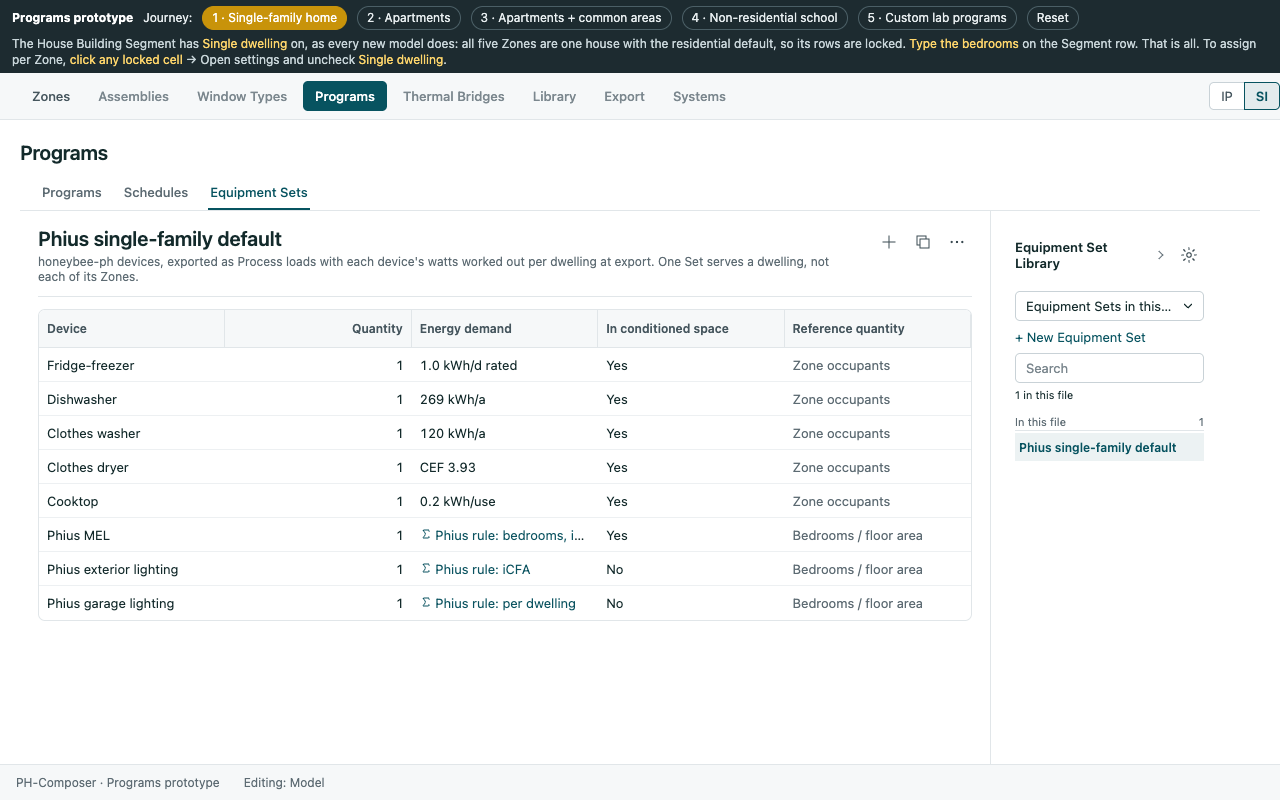
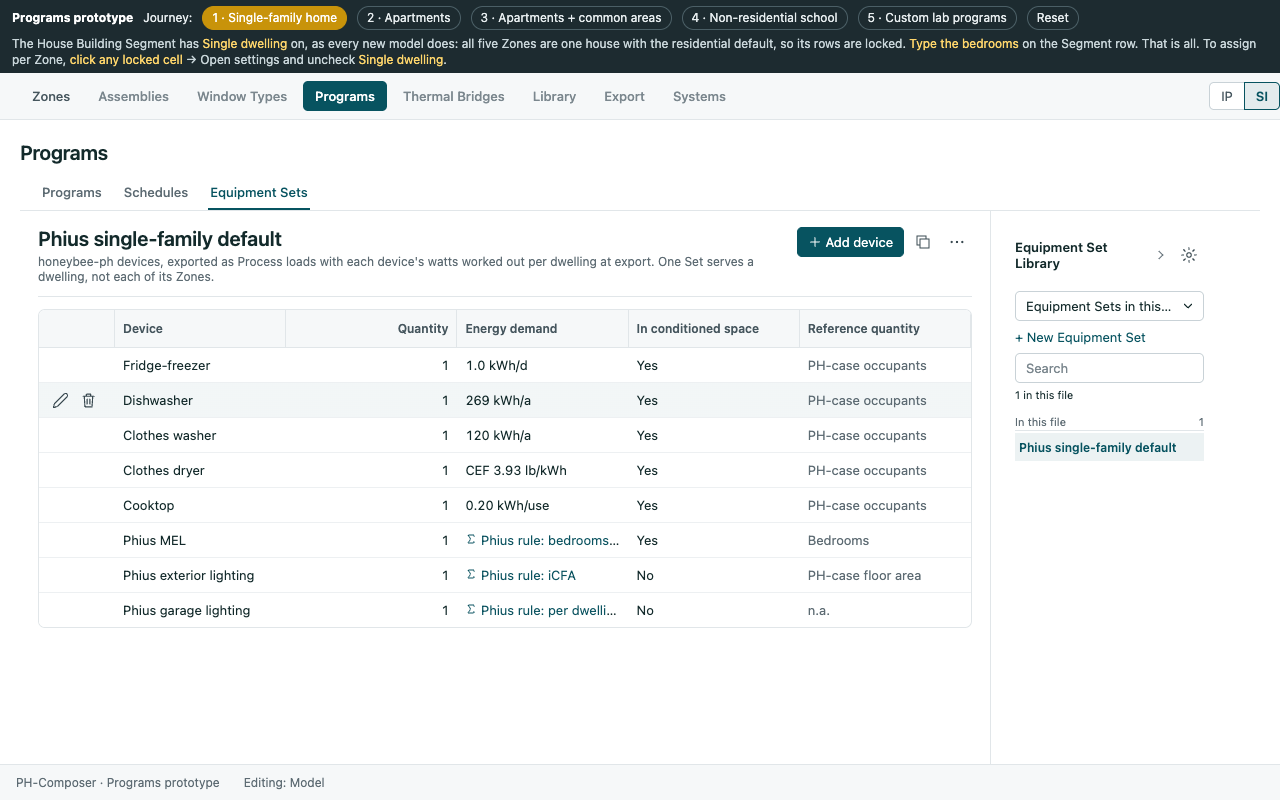
Programs tab: add, edit and delete Equipment Set devices one at a time
Q4a-36: Edit and Delete in each device row's Actions cell, Add device as
the Set's primary action, and one form dialog laid out by the device's
honeybee-ph PhEquipment type (14 types, fields as honeybee_grasshopper_ph
create_elec_equip.py exposes them). The type is chosen on Add and fixed on
Edit; Delete confirms. Recorded in the PRD, contracts, P4a-07 and P4a-11.

diff --git a/planning/features/phase-04a-program/mockups/programs.html b/planning/features/phase-04a-program/mockups/programs.html
@@ -50,6 +50,11 @@
   .pgm-col-head { padding:6px 10px 4px; font-size:11px; font-weight:600; color:var(--muted); text-transform:uppercase; letter-spacing:.04em; }
   .pgm-col .pgm-sched { padding:6px 10px; }
   .pgm-src { padding:6px 10px; font-size:11px; color:var(--muted); }
+  .zp-devices tbody tr { cursor:pointer; }
+  .zp-devices td.col-actions { white-space:nowrap; overflow:visible; text-overflow:clip; }
+  .zp-devdlg .zp-grid { grid-template-columns:230px 1fr; }
+  .zp-devdlg-error { min-height:1em; margin:6px 0 0; }
+  .pgm-tools button.primary { display:inline-flex; align-items:center; gap:4px; white-space:nowrap; }
   .vent-form { display:grid; grid-template-columns:120px 140px 140px; gap:6px 12px; align-items:center; margin-top:14px; font-size:12px; }
   .vent-form > b { font-size:11px; color:var(--muted); text-transform:uppercase; letter-spacing:.04em; }
   .vent-form input { width:100%; min-height:28px; padding:2px 8px; text-align:right; }
@@ -265,6 +270,51 @@
     return x;
   }
 
+  // ---------------------------------------------------------------- Equipment Set devices
+  // One entry per honeybee-ph PhEquipment type PHX reads (honeybee_grasshopper_ph create_elec_equip.py). `rq` lists
+  // the WUFI/METr reference quantity codes valid for the type; `demand` its energy demand; `extra` its own fields.
+  var REFQ = { 1: "PH-case occupants", 2: "Zone occupants", 3: "Bedrooms", 4: "PH-case units", 5: "User defined", 6: "PH-case floor area", 7: "Zone floor area", 8: "n.a." };
+  var WATER = ["DHW connection", "Cold water connection"];
+  var FRIDGE = { rq: [1, 2, 5], norms: ["Per day", "Per year"], demand: { label: "Energy demand (rated)", unit: "kWh", def: 1.0 }, perUse: { label: "Energy per day", unit: "kWh/d", def: 1.0 } };
+  var DEVICE_TYPES = [
+    { id: "dishwasher", label: "Dishwasher", rq: [1, 2, 5], norms: ["Per year"], demand: { label: "Annual energy use rating", unit: "kWh/a", def: 269 }, perUse: { label: "Energy per use", unit: "kWh/use", def: 1.1 },
+      extra: [{ k: "capacity_type", label: "Capacity, preselection", options: ["Standard"] }, { k: "capacity", label: "Capacity", unit: "place settings", def: 12 }, { k: "water", label: "Water connection", options: WATER }] },
+    { id: "washer", label: "Clothes washer", rq: [1, 2, 5], norms: ["Per year"], demand: { label: "Annual energy use", unit: "kWh/a", def: 120 }, perUse: { label: "Energy per use", unit: "kWh/use", def: 1.1 },
+      extra: [{ k: "capacity", label: "Capacity", unit: "m³", def: 0.1274 }, { k: "mef", label: "MEF, modified energy factor", unit: "", def: 2.7 }, { k: "util", label: "Utilization factor", unit: "", def: 1.0 }, { k: "water", label: "Water connection", options: WATER }] },
+    { id: "dryer", label: "Clothes dryer", rq: [1, 2, 5], norms: ["CEF"], demand: { label: "CEF, combined energy factor", unit: "lb/kWh", def: 3.93 }, perUse: { label: "Energy per use", unit: "kWh/use", def: 3.5 },
+      extra: [{ k: "dryer_type", label: "Dryer type", options: ["Clothes line", "Drying closet (cold)", "Drying closet (cold) in extract air", "Condensation dryer", "Electric exhaust air dryer", "Gas exhaust air dryer", "Heat pump dryer"], def: "Condensation dryer" },
+        { k: "gas", label: "Gas consumption", unit: "kWh", def: 0, when: "Gas exhaust air dryer" }, { k: "gas_cef", label: "CEF, gas", unit: "", def: 2.67, when: "Gas exhaust air dryer" },
+        { k: "fuf_type", label: "Field utilization factor, preselection", options: ["Timer controls", "Moisture sensing"] }, { k: "fuf", label: "Field utilization factor", unit: "", def: 1.18 }] },
+    { id: "fridge", label: "Refrigerator", rq: FRIDGE.rq, norms: FRIDGE.norms, demand: FRIDGE.demand, perUse: FRIDGE.perUse },
+    { id: "freezer", label: "Freezer", rq: FRIDGE.rq, norms: FRIDGE.norms, demand: FRIDGE.demand, perUse: FRIDGE.perUse },
+    { id: "fridge_freezer", label: "Fridge-freezer", rq: FRIDGE.rq, norms: FRIDGE.norms, demand: FRIDGE.demand, perUse: FRIDGE.perUse },
+    { id: "cooktop", label: "Cooktop", rq: [1, 2, 5], norms: ["Per use"], demand: { label: "Energy demand (rated)", unit: "kWh/use", def: 0.2 }, perUse: { label: "Energy per use", unit: "kWh/use", def: 0.25 },
+      extra: [{ k: "fuel", label: "Cooktop type", options: ["Electricity", "Natural gas", "LPG"] }] },
+    { id: "mel", label: "Phius MEL", rq: [3, 5], rule: "Phius rule: bedrooms and iCFA" },
+    { id: "light_int", label: "Phius interior lighting", rq: [6, 7, 5], rule: "Phius rule: iCFA", extra: [{ k: "hef", label: "High-efficacy fraction", unit: "0 to 1", def: 1.0 }] },
+    { id: "light_ext", label: "Phius exterior lighting", rq: [6, 7, 5], rule: "Phius rule: iCFA", extra: [{ k: "hef", label: "High-efficacy fraction", unit: "0 to 1", def: 1.0 }] },
+    { id: "light_garage", label: "Phius garage lighting", rq: [8], rule: "Phius rule: per dwelling", extra: [{ k: "hef", label: "High-efficacy fraction", unit: "0 to 1", def: 1.0 }] },
+    { id: "custom_elec", label: "Custom electric, annual", rq: [5], norms: ["Per year"], demand: { label: "Annual energy use", unit: "kWh/a", def: 100 } },
+    { id: "custom_light", label: "Custom lighting, annual", rq: [5], norms: ["Per year"], demand: { label: "Annual energy use", unit: "kWh/a", def: 100 } },
+    { id: "custom_mel", label: "Custom MEL, annual", rq: [5], norms: ["Per year"], demand: { label: "Annual energy use", unit: "kWh/a", def: 100 } }
+  ];
+  function devType(id) { return DEVICE_TYPES.filter(function (d) { return d.id === id; })[0]; }
+  function newDevice(typeId, name) {
+    var ty = devType(typeId), d = { type: typeId, name: name || ty.label, qty: 1, inside: !/ext|garage/.test(typeId), ref: ty.rq[0], norm: ty.norms ? ty.norms[0] : null, comment: "" };
+    if (ty.demand) d.demand = ty.demand.def;
+    if (ty.perUse) d.perUse = ty.perUse.def;
+    (ty.extra || []).forEach(function (x) { d[x.k] = x.options ? (x.def || x.options[0]) : x.def; });
+    return d;
+  }
+  function deviceDemand(d) {
+    var ty = devType(d.type);
+    if (ty.rule) return ty.rule;
+    if (d.type === "dryer") return "CEF " + fmt(d.demand, 2) + " lb/kWh";
+    if (ty.id === "cooktop") return fmt(d.demand, 2) + " kWh/use";
+    if (/fridge|freezer/.test(ty.id)) return fmt(d.demand, 1) + (d.norm === "Per day" ? " kWh/d" : " kWh/a");
+    return fmt(d.demand) + " kWh/a";
+  }
+
   // A Building Segment and the settings its dialog edits. Field names follow honeybee-ph BldgSegment and PhiusCertification.
   function segRecord(name, cat, air) {
     return { id: id("seg"), name: name, category: cat, air: air || { kind: "n50", value: null }, cert: "Phius 2021 CORE", use: cat === "res" ? "Residential" : "School",
@@ -292,9 +342,8 @@
       equip: { wpa: 0, sched: always.id }, gas: { wpa: 0, sched: always.id }, shw: { rule: true, temp: 43.3, sched: hotwater.id },
       infil: { flow: 0.0003, sched: always.id }, vent: { pp: 0, pa: 0, pz: 0, ach: 0.4, sched: ventRes.id },
       setpoint: { heat: 20, cool: 25, hs: heat.id, cs: cool.id, dehum: 60 } });
-    s.sets.push({ id: "set_sfh", name: "Phius single-family default", devices: [
-      ["Fridge-freezer", 1, "1.0 kWh/d rated"], ["Dishwasher", 1, "269 kWh/a"], ["Clothes washer", 1, "120 kWh/a"], ["Clothes dryer", 1, "CEF 3.93"],
-      ["Cooktop", 1, "0.2 kWh/use"], ["Phius MEL", 1, "Phius rule: bedrooms, iCFA"], ["Phius exterior lighting", 1, "Phius rule: iCFA"], ["Phius garage lighting", 1, "Phius rule: per dwelling"]] });
+    s.sets.push({ id: "set_sfh", name: "Phius single-family default", devices: [newDevice("fridge_freezer"), newDevice("dishwasher"), newDevice("washer"), newDevice("dryer"),
+      newDevice("cooktop"), newDevice("mel"), newDevice("light_ext"), newDevice("light_garage")] });
     s.selProgram = "pgm_default"; s.selSchedule = presence.id; s.selSet = "set_sfh";
 
     function seg(name, cat, air) { var g = segRecord(name, cat, air); if (!s.defaultSeg) s.defaultSeg = g.id; s.segments.push(g); return g.id; }
@@ -617,6 +666,86 @@
           applySingle(g); render(); return;
         }
       }
+      dlg.close(); dlg.remove(); render();
+    });
+    dlg.addEventListener("cancel", function () { dlg.remove(); render(); });
+    dlg.showModal();
+  }
+  function deviceDialog(setId, idx) {
+    var x = setById(setId), adding = idx === null, d = adding ? newDevice("dishwasher") : JSON.parse(JSON.stringify(x.devices[idx]));
+    var dlg = document.createElement("dialog");
+    dlg.className = "phc-dialog zp-segdlg zp-devdlg";
+    function num(k, label, unit, v, tip) { return row(label + (unit ? " [" + unit + "]" : ""), '<input class="zp-num" name="' + k + '" value="' + (v === undefined || v === null ? "" : v) + '"' + (tip ? ' data-tip="' + esc(tip) + '"' : "") + '>'); }
+    function sel(k, label, opts, v) { return row(label, '<select name="' + k + '">' + opts.map(function (o) { var val = typeof o === "object" ? o[0] : o, lab = typeof o === "object" ? o[1] : o; return '<option value="' + esc(val) + '"' + (String(val) === String(v) ? " selected" : "") + '>' + esc(lab) + '</option>'; }).join("") + '</select>'); }
+    function body() {
+      var ty = devType(d.type);
+      var h = '<section><h3>Device</h3><div class="zp-grid">' +
+        (adding ? sel("type", "Type", DEVICE_TYPES.map(function (y) { return [y.id, y.label]; }), d.type) : row("Type", esc(ty.label) + ' <span class="zp-muted">To change the type, delete and add.</span>')) +
+        row("Name", '<input name="name" value="' + esc(d.name) + '">') +
+        num("qty", "Quantity", "", d.qty, "The number of units; the energy demand is for one unit.") +
+        row("In conditioned space", '<input type="checkbox" name="inside"' + (d.inside ? " checked" : "") + '> <span class="zp-muted">Its waste heat counts as an internal gain.</span>') +
+        row("Comment", '<input name="comment" value="' + esc(d.comment || "") + '" placeholder="Shown in WUFI-Passive and METr">') + '</div></section>';
+      h += '<section><h3>Energy</h3><div class="zp-grid">' +
+        sel("ref", "Reference quantity", ty.rq.map(function (c) { return [c, REFQ[c]]; }), d.ref);
+      if (ty.rule) h += row("Energy demand", '<span style="color:#0b5360">' + svg("sigma", 12) + ' ' + esc(ty.rule) + '</span> <span class="zp-muted">Calculated by WUFI-Passive and METr from the reference quantity.</span>');
+      else {
+        if (ty.norms && ty.norms.length > 1) h += sel("norm", "Energy demand per", ty.norms, d.norm);
+        h += num("demand", ty.demand.label, /fridge|freezer/.test(ty.id) ? (d.norm === "Per day" ? "kWh/d" : "kWh/a") : ty.demand.unit, d.demand);
+      }
+      h += '</div></section>';
+      var extra = (ty.extra || []).filter(function (e) { return !e.when || d.dryer_type === e.when; });
+      if (extra.length) h += '<section><h3>' + esc(ty.label) + '</h3><div class="zp-grid">' + extra.map(function (e) { return e.options ? sel(e.k, e.label, e.options, d[e.k]) : num(e.k, e.label, e.unit, d[e.k]); }).join("") + '</div></section>';
+      if (ty.perUse) h += '<section><h3>PHPP only</h3><div class="zp-grid">' + num("perUse", ty.perUse.label, ty.perUse.unit, d.perUse, "PHPP reads this; WUFI-Passive and METr ignore it.") + '</div></section>';
+      return h;
+    }
+    function paint() {
+      dlg.innerHTML = '<button type="button" class="phc-dialog-close" aria-label="Close" data-dlg="cancel">' + svg("clear", 18) + '</button><h2>' + (adding ? "Add device to " + esc(x.name) : "Edit " + esc(d.name)) + '</h2>' +
+        '<div class="zp-segdlg-body">' + body() + '</div><p class="cell-error zp-devdlg-error" role="status"></p><div class="phc-dialog-actions"><button type="button" data-dlg="cancel">Cancel</button><button type="button" class="primary" data-dlg="ok">' + (adding ? "Add device" : "Save") + '</button></div>';
+    }
+    function read() {
+      var q = function (n) { return dlg.querySelector('[name="' + n + '"]'); };
+      Array.prototype.forEach.call(dlg.querySelectorAll("[name]"), function (el) {
+        var n = el.getAttribute("name"); if (n === "type") return;
+        if (el.type === "checkbox") d.inside = el.checked;
+        else if (el.tagName === "SELECT") d[n] = n === "ref" ? +el.value : el.value;
+        else if (n === "name" || n === "comment") d[n] = el.value;
+        else d[n] = el.value === "" ? null : parseFloat(el.value);
+      });
+      return q;
+    }
+    paint();
+    document.body.appendChild(dlg);
+    dlg.addEventListener("change", function (e) {
+      var n = e.target.getAttribute("name");
+      if (n === "type") { var nm = d.name; var was = devType(d.type).label; d = newDevice(e.target.value); if (nm && nm !== was) d.name = nm; paint(); }
+      else if (n === "norm" || n === "dryer_type") { read(); paint(); }
+    });
+    dlg.addEventListener("click", function (e) {
+      var b = e.target.closest("[data-dlg]"); if (!b) return;
+      if (b.getAttribute("data-dlg") === "ok") {
+        read();
+        var bad = !d.name.trim() ? "Enter a name." : !(d.qty >= 1) ? "Quantity is a whole number of at least 1." : (d.demand !== undefined && !(d.demand >= 0)) ? "Enter the energy demand." : null;
+        if (bad) { dlg.querySelector(".zp-devdlg-error").textContent = bad; return; }
+        d.qty = Math.round(d.qty);
+        if (adding) x.devices.push(d); else x.devices[idx] = d;
+        notify((adding ? "Added " : "Saved ") + d.name + (adding ? " to " + x.name + "." : "."));
+      }
+      dlg.close(); dlg.remove(); render();
+    });
+    dlg.addEventListener("cancel", function () { dlg.remove(); render(); });
+    dlg.showModal();
+  }
+  function confirmDeleteDevice(setId, idx) {
+    var x = setById(setId), d = x.devices[idx], users = S.dwellings.filter(function (w) { return w.set === setId; }).length;
+    var dlg = document.createElement("dialog");
+    dlg.className = "phc-dialog phc-confirm-dialog zp-confirm";
+    dlg.innerHTML = '<button type="button" class="phc-dialog-close" aria-label="Close" data-dlg="cancel">' + svg("clear", 18) + '</button><h2>Delete ' + esc(d.name) + '?</h2>' +
+      '<p>It is removed from ' + esc(x.name) + (users ? ", and from the " + users + " dwelling" + (users > 1 ? "s" : "") + " that use it" : "") + '.</p>' +
+      '<div class="phc-dialog-actions"><button type="button" data-dlg="cancel">Cancel</button><button type="button" class="primary" data-dlg="ok">Delete</button></div>';
+    document.body.appendChild(dlg);
+    dlg.addEventListener("click", function (e) {
+      var b = e.target.closest("[data-dlg]"); if (!b) return;
+      if (b.getAttribute("data-dlg") === "ok") { x.devices.splice(idx, 1); notify("Deleted " + d.name + " from " + x.name + "."); }
       dlg.close(); dlg.remove(); render();
     });
     dlg.addEventListener("cancel", function () { dlg.remove(); render(); });
@@ -1018,9 +1147,17 @@
   function setsSurface() {
     var x = setById(S.selSet);
     var h = '<div class="pgm-layout"><div class="pgm-main"><div class="pgm-head"><div><h2>' + esc(x.name) + '</h2><div class="pgm-sub">honeybee-ph devices, exported as Process loads with each device\'s watts worked out per dwelling at export. One Set serves a dwelling, not each of its Zones.</div></div><div class="pgm-tools">' +
-      iconBtn("add", "Add device", "noop") + iconBtn("duplicate", "Duplicate", "noop") + iconBtn("more", "More", "noop") + '</div></div>';
-    h += '<div class="phc-table-mount" style="margin-top:12px"><table class="phc-table zp-table"><thead><tr><th>Device</th><th class="num">Quantity</th><th>Energy demand</th><th>In conditioned space</th><th>Reference quantity</th></tr></thead><tbody>' +
-      x.devices.map(function (d) { var r = /Phius rule/.test(d[2]); return '<tr><td>' + esc(d[0]) + '</td><td class="num">' + d[1] + '</td><td>' + (r ? '<span style="color:#0b5360">' + svg("sigma", 12) + ' ' + esc(d[2]) + '</span>' : esc(d[2])) + '</td><td>' + (/exterior|garage/i.test(d[0]) ? "No" : "Yes") + '</td><td class="zp-muted">' + (r ? "Bedrooms / floor area" : "Zone occupants") + '</td></tr>'; }).join("") + '</tbody></table></div></div>' +
+      '<button type="button" class="primary" data-act="device-add" data-v="' + x.id + '">' + svg("add", 14) + ' Add device</button>' + iconBtn("duplicate", "Duplicate", "noop") + iconBtn("more", "More", "noop") + '</div></div>';
+    h += '<div class="phc-table-mount" style="margin-top:12px; --row-actions-width:76px"><table class="phc-table zp-table reveals-row-actions zp-devices"><thead><tr><th class="col-actions"></th><th>Device</th><th class="num">Quantity</th><th>Energy demand</th><th>In conditioned space</th><th>Reference quantity</th></tr></thead><tbody>' +
+      (x.devices.length ? x.devices.map(function (d, i) {
+        var ty = devType(d.type);
+        return '<tr data-act="device-edit" data-v="' + x.id + '" data-i="' + i + '"><td class="col-actions">' +
+          '<button type="button" class="phc-icon-button row-icon" data-row-action="edit" data-act="device-edit" data-v="' + x.id + '" data-i="' + i + '" aria-label="Edit ' + esc(d.name) + '" data-tip="Edit ' + esc(d.name) + '">' + svg("pencil", 16) + '</button>' +
+          '<button type="button" class="phc-icon-button row-icon row-delete" data-row-action="delete" data-act="device-delete" data-v="' + x.id + '" data-i="' + i + '" aria-label="Delete ' + esc(d.name) + '" data-tip="Delete ' + esc(d.name) + '">' + svg("del", 16) + '</button></td>' +
+          '<td>' + esc(d.name) + (d.name !== ty.label ? ' <span class="zp-muted">· ' + esc(ty.label) + '</span>' : "") + '</td><td class="num">' + d.qty + '</td>' +
+          '<td>' + (ty.rule ? '<span style="color:#0b5360">' + svg("sigma", 12) + ' ' + esc(ty.rule) + '</span>' : esc(deviceDemand(d))) + '</td>' +
+          '<td>' + (d.inside ? "Yes" : "No") + '</td><td class="zp-muted">' + esc(REFQ[d.ref]) + '</td></tr>';
+      }).join("") : '<tr><td></td><td colspan="5" class="zp-muted">No devices yet. Choose Add device.</td></tr>') + '</tbody></table></div></div>' +
       simpleSidebar("Equipment Set Library", "Equipment Sets in this file", "new-set", "New Equipment Set", caption("In this file", S.sets.length) + S.sets.map(function (y) { return fileRow(y.name, y.id, "sel-set", S.selSet === y.id); }).join(""), S.sets.length) + '</div>';
     return h;
   }
@@ -1075,6 +1212,9 @@
     if (a === "journey") { S = baseState(+v); }
     else if (a === "reset") { S = baseState(S.journey); }
     else if (a === "tab") { S.tab = v; S.bubble = null; }
+    else if (a === "device-add") { deviceDialog(v, null); return; }
+    else if (a === "device-edit") { deviceDialog(v, +el.getAttribute("data-i")); return; }
+    else if (a === "device-delete") { confirmDeleteDevice(v, +el.getAttribute("data-i")); return; }
     else if (a === "card-toggle") { S.openCards[v] = !S.openCards[v]; }
     else if (a === "ztab") { S.ztab = v; S.checked = {}; S.bubble = null; }
     else if (a === "zone-reset") { var rz = S.zones.filter(function (z) { return z.id === v; })[0]; rz.spaces.forEach(function (sp) { sp.sup = sp.eta = sp.tran = null; }); notify(rz.name + " uses its Program's airflow again."); }
@@ -1192,6 +1332,8 @@
     if (st === "sets") { S.tab = "programs"; S.ptab = "sets"; }
     if (st === "lockinfo") { setTimeout(function () { var c = document.querySelector('.zp-locked'); if (c) { lockBubble(c.getAttribute("data-v"), c); render(); } }, 50); }
     if (st === "spaces") S.ztab = "spaces";
+    if (st === "devedit") setTimeout(function () { deviceDialog("set_sfh", 3); }, 50);
+    if (st === "devadd") setTimeout(function () { deviceDialog("set_sfh", null); }, 50);
     if (st === "cards") { S.openCards.people = true; S.openCards.vent = true; }
     if (st === "ventsched") { S.tab = "programs"; S.ptab = "schedules"; S.selSchedule = S.schedules.filter(function (x) { return x.name === "SFH ventilation"; })[0].id; }
     if (st === "cascade") S.zones.forEach(function (z) {

diff --git a/planning/features/phase-04a-program/DECISIONS.md b/planning/features/phase-04a-program/DECISIONS.md
@@ -108,6 +108,7 @@ them. He answered three of the questions it raised, Q4a-27 to Q4a-32 on 2026-11-
 | Q4a-34 | **The Program editor is a column of full-width accordion cards**: closed, each shows its values and schedule on one line; open, the load's values on the left and its Schedules on the right; clear borders and a header band separate them. Order: Occupancy, Lighting, Ventilation, Electric equipment, Setpoint, Infiltration, then Gas equipment and Hot water under "EnergyPlus only" | Prototype `j4-program-cards` |
 | Q4a-35 | **One right sidebar, the Builders' pattern, on every subtab** (revised the same day: Ed, "consistency is important"). No left rail. As in the Assembly and Window Type Builders, the sidebar's source select starts with "Programs in this file" (or Schedules, Equipment Sets) and lists the added libraries after it; choosing a record in this file opens it in the editor, and a library row ends in a plus that copies it. Programs lists the Phius and other library files; Schedules and Equipment Sets show only their records in this file for now, since Schedules arrive with their Programs | Prototype `j4-library`, `j1-default-program`, `j1-vent-schedule`. Revisit library sources for Schedules and Equipment Sets after use |
 | Q4a-22 | **Copy on use, the same protocol as Materials, Frames, Glazings and Psi-Install Types** (Ed, 2026-11-15). Choosing a library Program copies it into the Model as a local record with its source attribution and assigns it, one native transaction (`context/TECH_STACK.md`, "Copy plus assignment commits as one native transaction"; `html/library/copy.js`). A later use finds the local copy by source identity ("In this file"); the copy keeps working offline and when the source changes; Review offers keep local or use the library copy | New for Programs: a Program references Schedules, so the copy brings them along and reuses local Schedules from the same source. Today's library kinds are all single records and the coordinator copies one record per use; P4a-07 adds dependency copying (the glossary's Bookshelfing already names it) |
+| Q4a-36 | **Equipment Set devices are added, edited and deleted one at a time** (Ed, 2026-11-15). A device row carries Edit and Delete in its Actions cell (revealed on hover; a row click also edits); **Add device** is the Set's primary action. Add and Edit open one form dialog: Device (type, chosen on Add and fixed on Edit; name; quantity; in conditioned space; comment), Energy (reference quantity limited to the codes the type allows; energy demand, or the Phius rule a rule device follows; per day or per year where the type offers both), the type's own fields, and a PHPP only section. Delete confirms, naming the Set and the dwellings that use it | The fields are honeybee-ph `PhEquipment`'s, as honeybee_grasshopper_ph `create_elec_equip.py` exposes them: 14 types (dishwasher, clothes washer, clothes dryer, refrigerator, freezer, fridge-freezer, cooktop, Phius MEL, Phius interior, exterior and garage lighting, custom annual electric, lighting and MEL). Prototype `equipment-sets`, `device-edit`, `device-add` |
 
 **Revised 2026-11-15 by the [Building Segments plan](building-segments/PRD.md#decisions-ed-2026-11-15)
 (BS-3):** Single dwelling is an attribute and control of each Building Segment, not of the Model.

diff --git a/planning/features/phase-04a-program/mockups/README.md b/planning/features/phase-04a-program/mockups/README.md
@@ -21,7 +21,7 @@ server. The dark strip at the top picks a journey and says what to try; Reset re
 | Building Segments (journey 3, then 1) | Check the Bike shed, Building Segment: No Building Segment or New Building Segment. Hover a Segment row: Settings and Delete appear in its Actions cell; settings is where it is renamed | `j3-no-segment` (`…,common,moveshed`), `j3-move-segment` (`…,common,checkshed`), `j3-new-segment` (`…,common,newseg`), `j3-segment-settings` (`…,common,segsettings`), `j3-delete-segment` (`…,common,newseg,trydelete`), `j1-segment-settings` (`journey=1&do=house3,segsettings`), `j1-adu` (`journey=1&do=house3,adu`), `j1-lock-bubble` (`journey=1&do=house3,lockinfo`), `j1-segment-actions` (the ADU row hovered) |
 | 4. Non-residential school | Unassigned Zones are flagged; assign from Phius Non-Residential, or browse the library sidebar | `j4-start` (`journey=4`), `j4-assigned` (`journey=4&do=school`), `j4-library` (`journey=4&do=school,libnr`), `j4-long-name` (`journey=4&do=school,longname`) |
 | 5. Custom lab programs | Programs tab, + on the rail, set loads, open a schedule chip | `j5-program` and `-420` (`journey=5&do=custom`), `j5-schedule` (`journey=5&do=custom,customsched`) |
-| Equipment Sets | Programs tab, Equipment Sets | `equipment-sets` (`journey=1&do=sets`) |
+| Equipment Sets | Programs tab, Equipment Sets: hover a device for Edit and Delete; Add device | `equipment-sets` (`journey=1&do=sets`), `device-edit` (`…,sets,devedit`), `device-add` (`…,sets,devadd`, type Phius interior lighting) |
 | Program cards and the ventilation Schedule | Open and close the load cards; Schedules, SFH ventilation, change the hours | `j4-program-cards` (`journey=4&do=school,libnr,cards`), `j1-vent-schedule` (`journey=1&do=ventsched`) |
 | Zones → Spaces (journey 1, then 3) | Zones, Spaces subtab. Type a Supply, Extract or Transfer rate on a Space and its Zone turns detailed; hover the Zone for From Program. Then compare Zones → Programs' Ventilation | `j1-spaces` (`journey=1&do=house3,spaces`), `j1-spaces-cascade` (`…,spaces,cascade`), `j3-spaces` (`journey=3&do=each,beds,common,spaces,cascade`) |
 
@@ -45,6 +45,11 @@ server. The dark strip at the top picks a journey and says what to try; Reset re
   week, weeks per year) over a 24-hour strip and a week row. A **ventilation** Schedule is four
   rows, high, standard, basic and minimum, each hours per day and a fraction, totalling 24 h
   (Q4a-33, `j1-vent-schedule`). The hourly editor is a disabled button marked as planned.
+- **Equipment Set devices** (Q4a-36, `equipment-sets`, `device-edit`, `device-add`): Edit and
+  Delete in each row's Actions cell, a row click also edits, **Add device** as the Set's primary
+  action. One form dialog per device, laid out by its honeybee-ph type: Device, Energy (reference
+  quantity limited to the type's codes; energy demand or its Phius rule), the type's own fields, and
+  PHPP only. The type is chosen on Add and fixed on Edit; Delete confirms.
 - **Single dwelling**, a setting of each Building Segment, switched in its settings dialog (Q4a-26
   as revised by BS-3). The heading shows a "Single dwelling" tag only where it is on. Clicking a
   locked cell or the tag opens a bubble explaining the lock with one **Open settings**

diff --git a/planning/features/phase-04a-program/phases/p4a-11-programs-tab.md b/planning/features/phase-04a-program/phases/p4a-11-programs-tab.md
@@ -40,8 +40,13 @@ Q4a-33, Q4a-34, Q4a-35 (revised). Prototype: `j4-program-cards`, `j4-library`,
    periods with a running total that turns amber unless it is 24 h), days per week and weeks per
    year, the 24-hour strip and week row, full-load hours, Used by, and the hourly editor as a
    disabled button marked planned.
-5. **Equipment Set editor**: the device grid (device, quantity, energy demand, in conditioned
-   space, reference quantity), Add device by type, Phius-rule devices marked, per-device remove.
+5. **Equipment Set editor** (Q4a-36): the device grid (device, with its type when renamed;
+   quantity; energy demand; in conditioned space; reference quantity), Phius-rule devices marked.
+   Edit and Delete in each row's Actions cell, revealed on hover; a row click also edits; **Add
+   device** is the Set's primary action. Add and Edit share one form dialog (`formDialog`) laid
+   out from the per-type field table: Device, Energy, the type's own fields (shown only when they
+   apply, such as a gas dryer's gas fields), PHPP only. The type is chosen on Add and fixed on Edit.
+   Delete confirms in the shared dialog, naming the Set and the dwellings using it.
 6. **Record lifecycle** per the UI polish rules: New acts at once under a free name and opens the
    title for renaming; Duplicate the same; Delete confirms in the shared dialog and, when the record
    is used, asks for a replacement.
@@ -54,7 +59,8 @@ Q4a-33, Q4a-34, Q4a-35 (revised). Prototype: `j4-program-cards`, `j4-library`,
 
 1. Browser checks: sidebar sources and rows on each subtab, open from a row, copy from a library
    with its Schedules, accordion open and close and keyboard, card summaries, missing-value flags,
-   rule switch, Reset on the default, ventilation total warning, device add and remove, New,
+   rule switch, Reset on the default, ventilation total warning, device add, edit (each type's
+   fields, the gas dryer's extra fields) and delete, New,
    Duplicate, Delete with replacement, IP and SI.
 2. Every edit is one registered action and one Undo step; a stale value refuses and the field
    returns to the Model's value.

diff --git a/planning/features/phase-04a-program/CONTRACTS.md b/planning/features/phase-04a-program/CONTRACTS.md
@@ -138,7 +138,7 @@ interview; the Programs tab review may change them.
 | --- | --- | --- |
 | `ph_composer.programs.program` | `pgm_` | Name, notes, source; eight load sections (People, Lighting, Electric equipment, Gas equipment, Service hot water, Infiltration, Ventilation with four terms and method fixed to Sum, Setpoint), each with its values and Schedule references (Q4a-02, Q4a-15) |
 | `ph_composer.programs.schedule` | `sch_` | Name, type (fractional, activity level, temperature, ventilation) and its PH form: for fractional and activity, start, end, fraction while operating and otherwise; for ventilation, the four periods high, standard, basic and minimum, each hours per day and a fraction (totalling 24 h, Q4a-33); for both, days per week and weeks per year. Writes its honeybee ruleset (Q4a-07, Q4a-09) |
-| `ph_composer.programs.equipment_set` | `eqs_` | Name; devices as `Records::Part`s, each a honeybee-ph `PhEquipment` type with its values (Q4a-03) |
+| `ph_composer.programs.equipment_set` | `eqs_` | Name; devices as `Records::Part`s (Q4a-03, Q4a-36), each `type` (one of 14 honeybee-ph `PhEquipment` types), `display_name`, `quantity` (integer ≥ 1), `in_conditioned_space`, `comment`, `reference_quantity` (a WUFI/METr code the type allows), `reference_energy_norm`, `energy_demand` (absent on Phius-rule types), `energy_demand_per_use` (PHPP only) and the type's own fields (dishwasher capacity and water connection; washer capacity, MEF, utilization factor, water connection; dryer type, CEF, field utilization factor and gas fields; cooktop fuel; the Phius lighting high-efficacy fraction) |
 | `ph_composer.programs.dwelling` | `dwl_` | Name, `units` (integer ≥ 1), `bedrooms` and `occupants` (number or null; set only under Single dwelling, Q4a-24), `equipment_set_id` (reference or null, Q4a-21) |
 
 **The residential default becomes an ordinary Program record in each Model** (Q4a-13, Q4a-23).

diff --git a/planning/features/phase-04a-program/phases/p4a-07-program-records.md b/planning/features/phase-04a-program/phases/p4a-07-program-records.md
@@ -50,10 +50,14 @@ sections 1 to 8 and 10. Paths are relative to `src/ph_composer/`.
    Each section may carry `source` (the base program a library value came from, Q4a-25). A rule
    load may be switched to a fixed value and back; the rule's inputs are kept.
 4. **Equipment Set kind** `ph_composer.programs.equipment_set` (`eqs_`): `name`; `devices` as
-   `Records::Part`s, each a honeybee-ph `PhEquipment` type (fridge-freezer, dishwasher, clothes
-   washer, clothes dryer, cooktop, Phius MEL, Phius interior, exterior and garage lighting, custom
-   annual or per-use electric) with its type's fields, `quantity` and `in_conditioned_space`.
-   Field lists from the pinned honeybee-ph `ph_equipment.py`.
+   `Records::Part`s, each one of the 14 honeybee-ph `PhEquipment` types (dishwasher, clothes washer,
+   clothes dryer, refrigerator, freezer, fridge-freezer, cooktop, Phius MEL, Phius interior,
+   exterior and garage lighting, custom annual electric, lighting and MEL) with the common fields
+   and its type's own (CONTRACTS section 5, Q4a-36). A per-type field table in
+   `features/programs/equipment_types.rb`, from the pinned honeybee-ph `ph_equipment.py` and
+   honeybee_grasshopper_ph `create_elec_equip.py`, drives validation, the dialog and export. Device
+   operations: `equipment_sets.add_device`, `update_device` (type fixed), `delete_device`, each one
+   Undo step, addressed by part id.
 5. **Residential default and the Model default.** A frozen definition in code
    (`features/programs/default_program.rb`), from the pinned honeybee-ph rules and schedules. Reads
    never write: while the Model holds no default Program record, reads answer the frozen definition

diff --git a/planning/features/phase-04a-program/PRD.md b/planning/features/phase-04a-program/PRD.md
@@ -165,8 +165,14 @@ Schedules and Equipment Sets show only their records in this file for now. Proto
   fraction of design flow, a running total that turns amber unless it is 24 h, days per week and
   weeks per year. Every Schedule lists the loads that use it. The hourly editor is planned (Q4a-07).
 - **Equipment Sets**: a device grid (device, quantity, energy demand, in conditioned space,
-  reference quantity) with Phius-rule devices marked. A Set is assigned to a Dwelling, or to a Zone
-  that is not a dwelling (Q4a-21).
+  reference quantity) with Phius-rule devices marked. Devices are added, edited and deleted one at
+  a time (Q4a-36): Edit and Delete in each row's Actions cell, a row click also edits, and **Add
+  device** as the Set's primary action. Add and Edit share one form dialog laid out by the device's
+  honeybee-ph type: Device (type, chosen on Add and fixed on Edit; name; quantity; in conditioned
+  space; comment), Energy (reference quantity, limited to the codes the type allows; energy demand,
+  or the Phius rule for a rule device), the type's own fields (a dryer's type, field utilization
+  factor and, for a gas dryer, gas consumption), and PHPP only. Delete confirms. A Set is assigned
+  to a Dwelling, or to a Zone that is not a dwelling (Q4a-21).
 - **Library Programs** copy into the Model with their Schedules when used, the same protocol as
   Materials, Frames and Glazings (Q4a-22), and arrive complete (Q4a-25).
 
